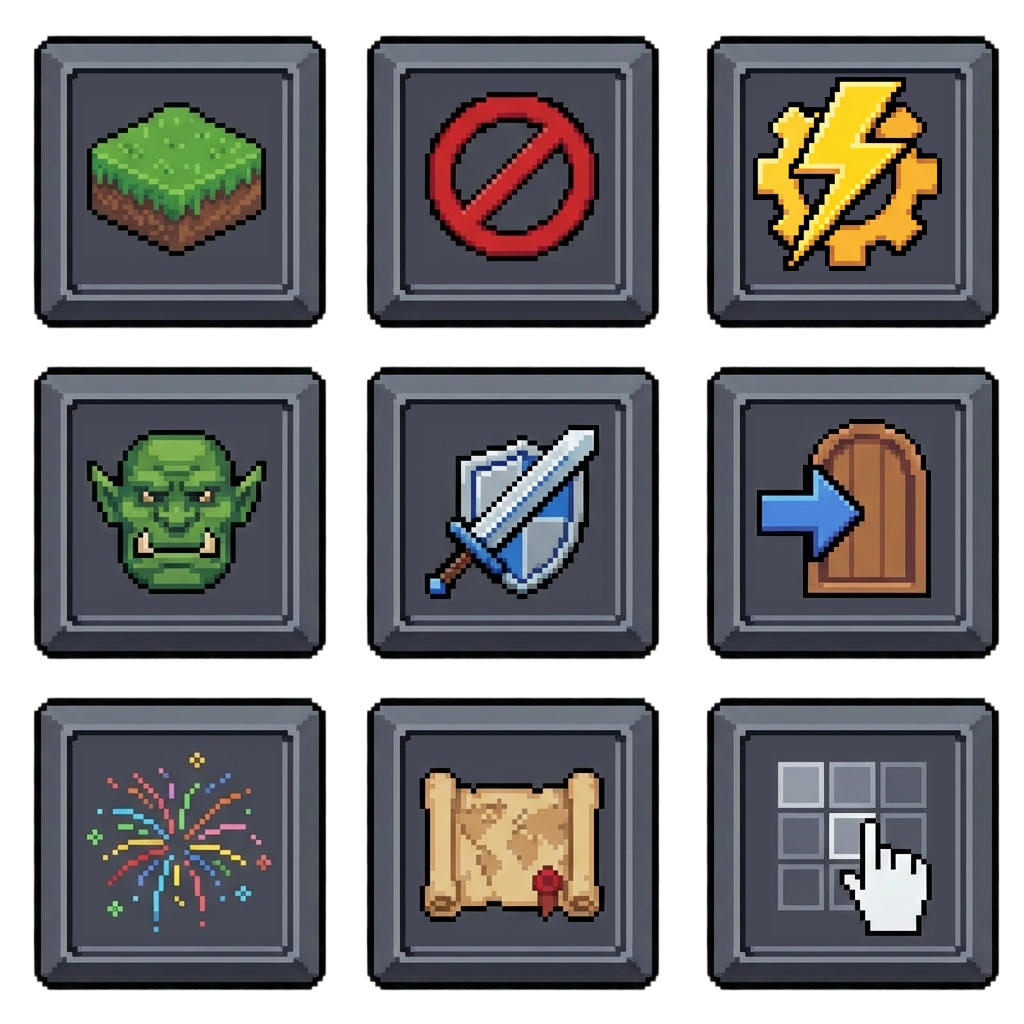
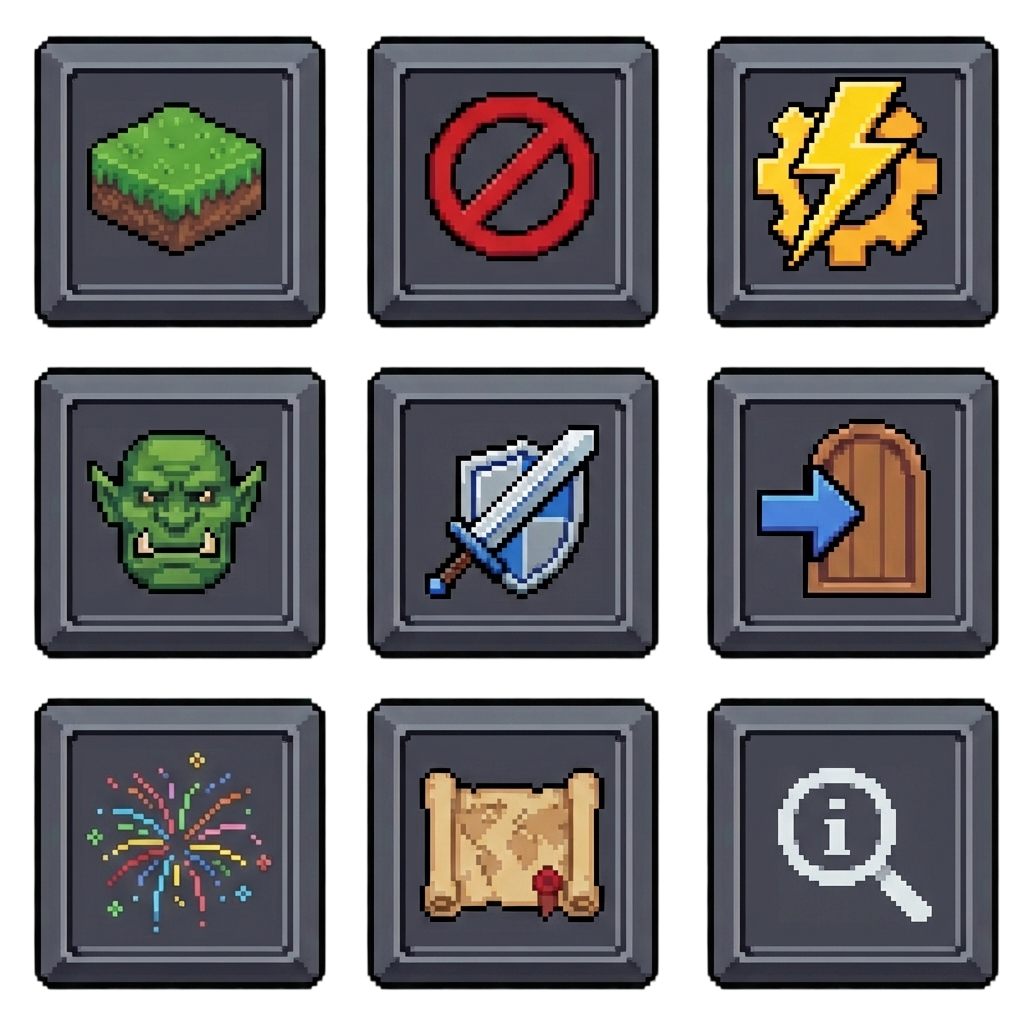
feat(editor): implement inspector mode and default selection behavior

Changed region(s): [[0.75, 0.7188, 0.9375, 0.9375], [0.7812, 0.2188, 0.8125, 0.25]]

diff --git a/src/main/java/org/argentumforge/engine/gui/forms/main/MainToolbar.java b/src/main/java/org/argentumforge/engine/gui/forms/main/MainToolbar.java
@@ -5,17 +5,13 @@ import imgui.ImGuiViewport;
 import imgui.flag.ImGuiCol;
 import imgui.flag.ImGuiStyleVar;
 import imgui.flag.ImGuiWindowFlags;
-import org.argentumforge.engine.game.console.Console;
-import org.argentumforge.engine.game.console.FontStyle;
 import org.argentumforge.engine.gui.ImGUISystem;
 import org.argentumforge.engine.gui.Theme;
 import org.argentumforge.engine.gui.forms.FMain;
 import org.argentumforge.engine.gui.forms.Form;
 import org.argentumforge.engine.i18n.I18n;
-import org.argentumforge.engine.renderer.RGBColor;
 
 import org.argentumforge.engine.renderer.Texture;
-import org.argentumforge.engine.utils.editor.*;
 
 /**
  * Componente para renderizar la barra de herramientas superior con botones de
@@ -118,37 +114,39 @@ public class MainToolbar {
 
         ImGui.sameLine();
 
-        // Botón Selección (Fila 2, Col 2)
-        boolean selectionActive = Selection.getInstance().isActive();
-        if (selectionActive) {
+        // Botón Inspector (Anteriormente Selección)
+        boolean inspectorActive = org.argentumforge.engine.game.EditorController.INSTANCE.isInspectorMode();
+        if (inspectorActive) {
             ImGui.pushStyleColor(ImGuiCol.Button, Theme.COLOR_ACCENT);
         }
 
-        ImGui.pushID("btnSelect");
+        ImGui.pushID("btnInspector");
         if (toolbarIcons.getId() > 0) {
             ImGui.pushStyleVar(ImGuiStyleVar.FramePadding, 0, 0);
             if (!mapOpen)
                 ImGui.beginDisabled();
-            if (ImGui.imageButton("##selectButton", (long) toolbarIcons.getId(), btnSize, btnSize, 2 * uvStep + zoom,
+            // Reutilizamos el mismo icono de selección por ahora (o placeholder)
+            // Coordenadas UV: 2, 2
+            if (ImGui.imageButton("##inspectorButton", (long) toolbarIcons.getId(), btnSize, btnSize, 2 * uvStep + zoom,
                     2 * uvStep + zoom,
                     3 * uvStep - zoom,
                     3 * uvStep - zoom)) {
-                toggleSelection();
+                toggleInspector();
             }
             if (!mapOpen)
                 ImGui.endDisabled();
             ImGui.popStyleVar();
         } else {
-            if (ImGui.button("Sel", btnSize, btnSize)) {
-                toggleSelection();
+            if (ImGui.button("Insp", btnSize, btnSize)) {
+                toggleInspector();
             }
         }
         ImGui.popID();
 
         if (ImGui.isItemHovered()) {
-            ImGui.setTooltip(I18n.INSTANCE.get("common.selection"));
+            ImGui.setTooltip(I18n.INSTANCE.get("common.inspector", "Inspector")); // Fallback text if key missing
         }
-        if (selectionActive) {
+        if (inspectorActive) {
             ImGui.popStyleColor();
         }
 
@@ -172,24 +170,9 @@ public class MainToolbar {
         ImGui.sameLine(0, 10);
     }
 
-    private void toggleSelection() {
-        Selection sel = Selection.getInstance();
-        sel.setActive(!sel.isActive());
-
-        if (sel.isActive()) {
-            Console.INSTANCE.addMsgToConsole(I18n.INSTANCE.get("msg.selectionModeOn"), FontStyle.REGULAR,
-                    new RGBColor(0f, 1f, 0f));
-            // Desactivar otros modos
-            Surface.getInstance().setMode(0);
-            Npc.getInstance().setMode(0);
-            Obj.getInstance().setMode(0);
-            Block.getInstance().setMode(0);
-            Trigger.getInstance().setMode(0);
-            Transfer.getInstance().setMode(0);
-        } else {
-            Console.INSTANCE.addMsgToConsole(I18n.INSTANCE.get("msg.selectionModeOff"), FontStyle.REGULAR,
-                    new RGBColor(1f, 1f, 0f));
-        }
+    private void toggleInspector() {
+        org.argentumforge.engine.game.EditorController controller = org.argentumforge.engine.game.EditorController.INSTANCE;
+        controller.setInspectorMode(!controller.isInspectorMode());
     }
 
     private void drawIconButton(String fallbackLabel, String tooltip, String formName, Form formInstance,

diff --git a/src/main/java/org/argentumforge/engine/listeners/EditorInputManager.java b/src/main/java/org/argentumforge/engine/listeners/EditorInputManager.java
@@ -65,6 +65,15 @@ public class EditorInputManager {
             int x = getTileMouseX((int) MouseListener.getX() - POS_SCREEN_X);
             int y = getTileMouseY((int) MouseListener.getY() - POS_SCREEN_Y);
 
+            // Lógica de Selección siempre activa por defecto (Si no hay herramientas de
+            // edición activas)
+            // Y si no estamos en modo pegar
+            if (!hasActiveInsertOrDeleteTool() && !EditorController.INSTANCE.isPasteModeActive()) {
+                selection.setActive(true);
+            } else {
+                selection.setActive(false);
+            }
+
             if (selection.isActive()) {
                 handleSelection(x, y);
                 return;
@@ -106,16 +115,30 @@ public class EditorInputManager {
     }
 
     private void handleSelection(int x, int y) {
-        boolean multiSelectPressed = KeyHandler.isActionKeyPressed(Key.MULTI_SELECT);
+        boolean multiSelectPressed = KeyHandler
+                .isActionKeyPressed(org.argentumforge.engine.game.models.Key.MULTI_SELECT);
+        boolean inspectorMode = org.argentumforge.engine.game.EditorController.INSTANCE.isInspectorMode();
+
+        // En modo inspector, forzamos selección simple (no multi)
+        if (inspectorMode) {
+            multiSelectPressed = false;
+        }
 
         if (MouseListener.mouseButtonDown(GLFW_MOUSE_BUTTON_LEFT)) {
             if (!selection.isDragging() && !selection.isAreaSelecting()) {
                 selection.tryGrab(x, y, multiSelectPressed);
-                if (!ImGUISystem.INSTANCE.isFormVisible("FTileInspector")) {
-                    ImGUISystem.INSTANCE.show(new org.argentumforge.engine.gui.forms.FTileInspector());
+
+                // Solo abrir inspector si el modo Inspector está activo
+                if (inspectorMode) {
+                    selection.cancelDrag(); // En modo inspector nunca arrastramos, solo seleccionamos
+                    if (!ImGUISystem.INSTANCE.isFormVisible("FTileInspector")) {
+                        ImGUISystem.INSTANCE.show(new org.argentumforge.engine.gui.forms.FTileInspector());
+                    }
                 }
             } else if (selection.isAreaSelecting()) {
-                selection.updateAreaSelect(x, y);
+                if (!inspectorMode) {
+                    selection.updateAreaSelect(x, y);
+                }
             }
         } else if (MouseListener.mouseButtonReleased(GLFW_MOUSE_BUTTON_LEFT)) {
             if (selection.isDragging()) {
@@ -400,5 +423,22 @@ public class EditorInputManager {
             return x >= 1 && x < mapData.length && y >= 1 && y < mapData[0].length;
         }
         return false;
+    }
+
+    /**
+     * Verifica si alguna herramienta tiene un modo activo de insertar (1) o
+     * eliminar (2).
+     * Cuando hay herramientas activas, Shift+clic NO debe activar la selección.
+     */
+    private boolean hasActiveInsertOrDeleteTool() {
+        // Incluimos mode 3 (Pick/Capturar) para que la selección no interfiera al
+        // capturar entidades
+        return surface.getMode() != 0 ||
+                npc.getMode() != 0 ||
+                obj.getMode() != 0 ||
+                block.getMode() != 0 ||
+                trigger.getMode() != 0 ||
+                transfer.getMode() != 0 ||
+                particle.getMode() != 0;
     }
 }

diff --git a/src/main/java/org/argentumforge/engine/game/EditorController.java b/src/main/java/org/argentumforge/engine/game/EditorController.java
@@ -22,6 +22,29 @@ public enum EditorController {
     INSTANCE;
 
     private boolean pasteModeActive = false;
+    private boolean inspectorMode = false;
+
+    public void setInspectorMode(boolean inspectorMode) {
+        this.inspectorMode = inspectorMode;
+        if (inspectorMode) {
+            Console.INSTANCE.addMsgToConsole("Modo Inspector activado. Clic en tile para ver info.", REGULAR,
+                    new RGBColor(0, 1, 0));
+        } else {
+            Console.INSTANCE.addMsgToConsole("Modo Inspector desactivado.", REGULAR,
+                    new RGBColor(1f, 1f, 0f));
+
+            // Cerrar la ventana del inspector si está abierta
+            org.argentumforge.engine.gui.forms.Form inspector = org.argentumforge.engine.gui.ImGUISystem.INSTANCE
+                    .getForm(org.argentumforge.engine.gui.forms.FTileInspector.class);
+            if (inspector != null) {
+                org.argentumforge.engine.gui.ImGUISystem.INSTANCE.deleteFrmArray(inspector);
+            }
+        }
+    }
+
+    public boolean isInspectorMode() {
+        return inspectorMode;
+    }
 
     public void setPasteModeActive(boolean pasteModeActive) {
         this.pasteModeActive = pasteModeActive;
